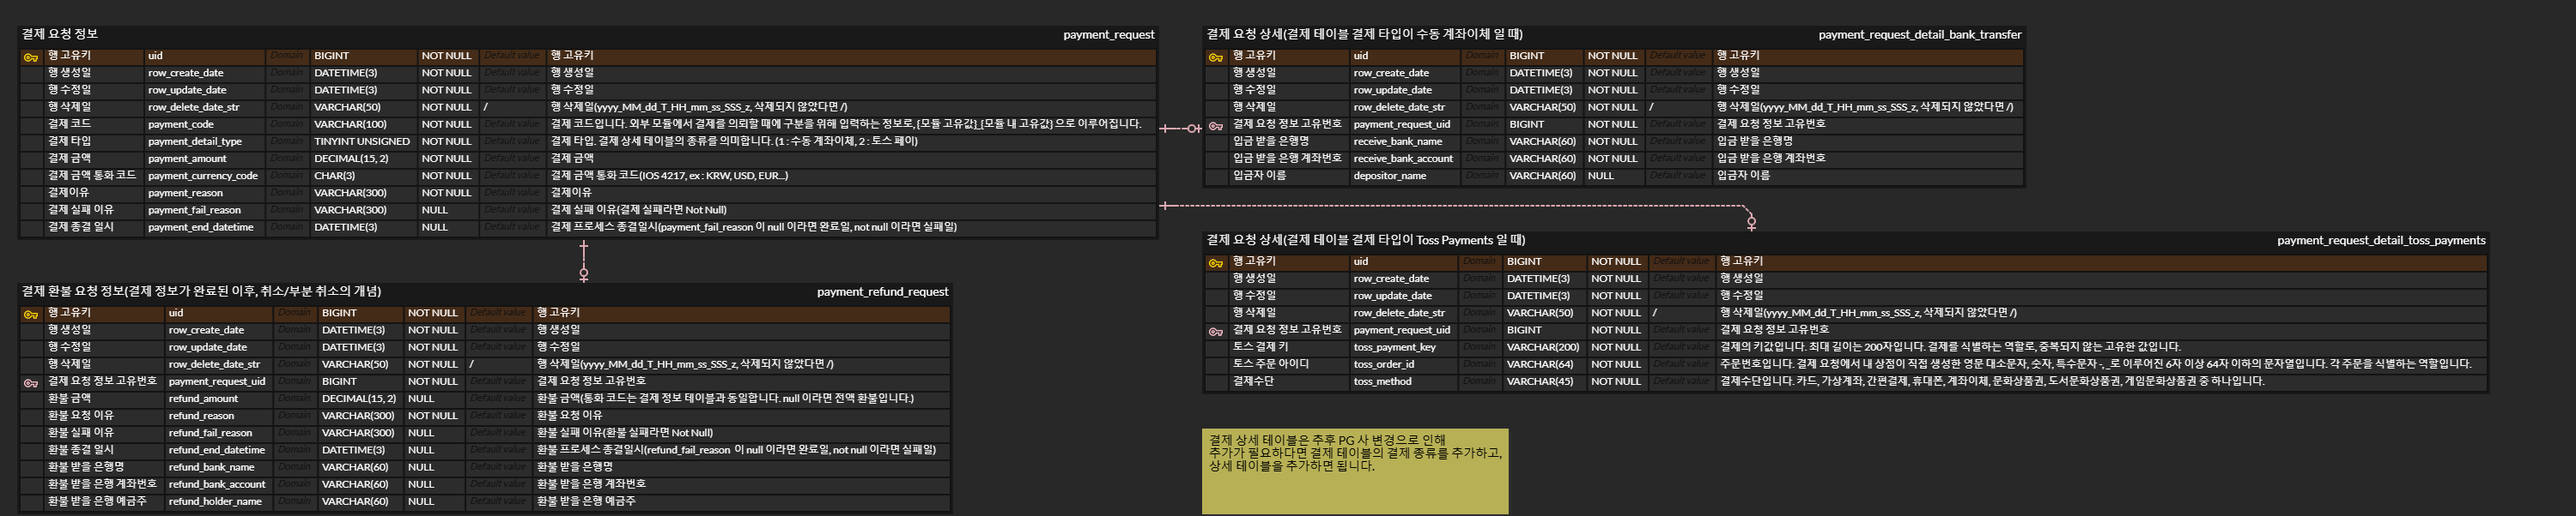
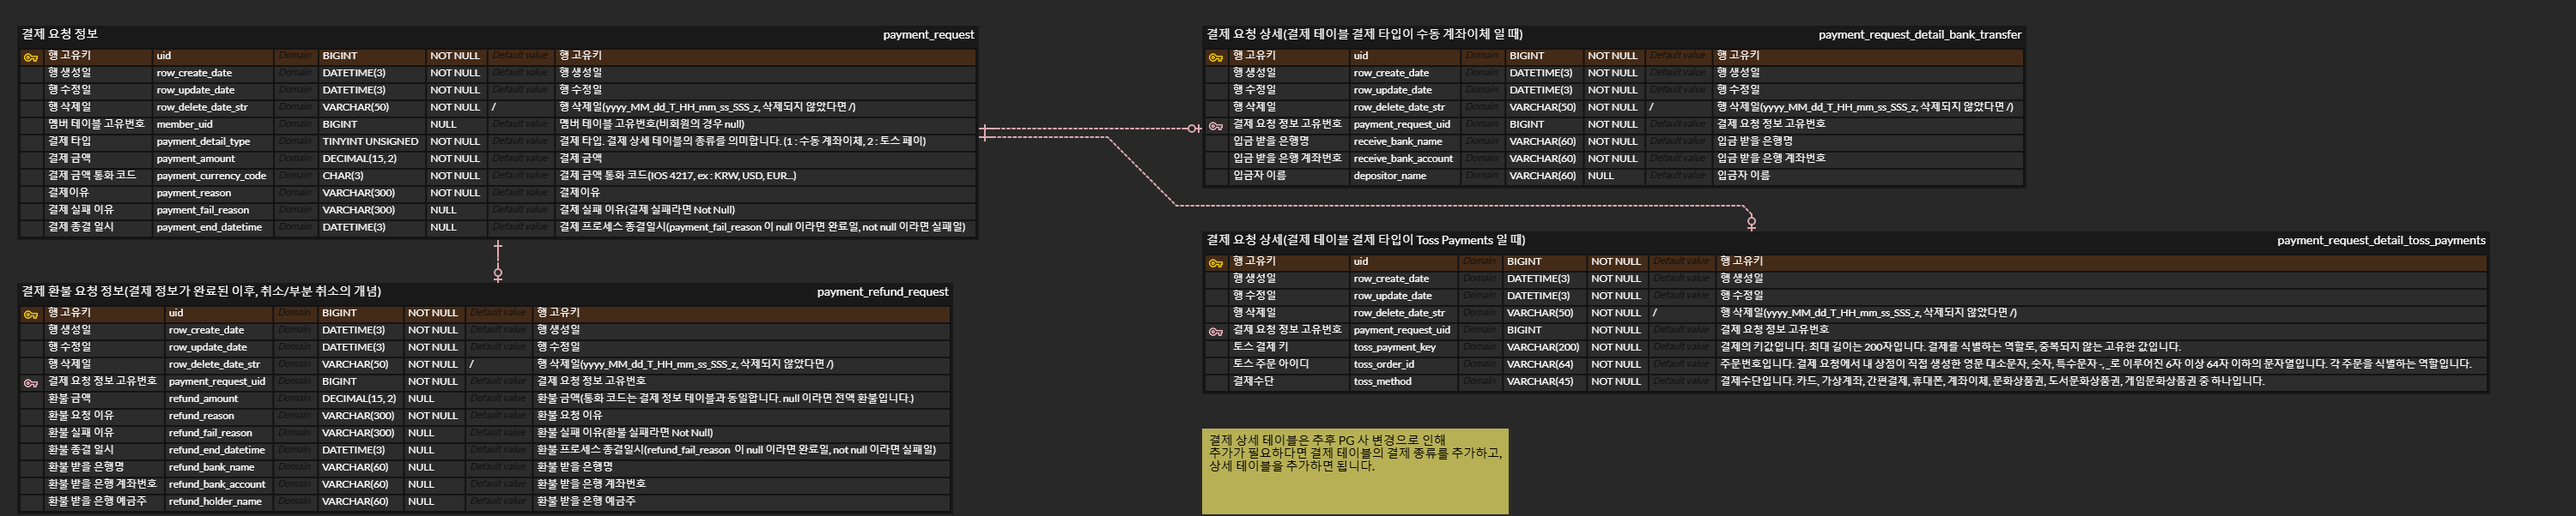
update : 결제 모듈 테이블 수정

Changed region(s): [[0.031, 0.0897, 0.465, 0.4485], [0.372, 0.0598, 0.465, 0.1495], [0.341, 0.0598, 0.372, 0.0897]]

diff --git a/module-payment/src/main/kotlin/com/raillylinker/controllers/PaymentController.kt b/module-payment/src/main/kotlin/com/raillylinker/controllers/PaymentController.kt
@@ -49,8 +49,7 @@ class PaymentController(
                     Header(
                         name = "api-result-code",
                         description = "(Response Code 반환 원인) - Required<br>" +
-                                "1 : paymentCode 가 올바르지 않습니다.<br>" +
-                                "2 : 통화 코드값의 길이는 3이어야 합니다.",
+                                "1 : 통화 코드값의 길이는 3이어야 합니다.",
                         schema = Schema(type = "string")
                     )
                 ]
@@ -83,15 +82,6 @@ class PaymentController(
     }
 
     data class PostBankTransferRequestInputVo(
-        @Schema(
-            description = "결제 코드입니다.<br>" +
-                    "외부 모듈에서 결제를 의뢰할 때에 구분을 위해 입력하는 정보로, {유저 고유값(비로그인시 0)}_{모듈 고유값}_{그 외 고유값} 으로 이루어집니다.<br>" +
-                    "환불 요청시의 비밀번호 역할도 겸하므로, 모듈 내 고유값에 유저 고유값과 랜덤값을 섞는 것이 좋습니다.",
-            required = true,
-            example = "module1_uid1"
-        )
-        @JsonProperty("paymentCode")
-        val paymentCode: String,
         @Schema(description = "결제 금액", required = true, example = "1000")
         @JsonProperty("paymentAmount")
         val paymentAmount: BigDecimal,
@@ -143,7 +133,7 @@ class PaymentController(
                     Header(
                         name = "api-result-code",
                         description = "(Response Code 반환 원인) - Required<br>" +
-                                "1 : 정보가 없거나 코드가 다릅니다.<br>" +
+                                "1 : 정보가 없습니다.<br>" +
                                 "2 : 완료되지 않은 결제입니다.<br>" +
                                 "3 : 실패한 결제입니다.<br>" +
                                 "4 : 환불 내역이 존재합니다.",
@@ -176,13 +166,6 @@ class PaymentController(
     }
 
     data class PostRequestBankTransferRefundAllInputVo(
-        @Schema(
-            description = "결제 요청에 사용한 결제 코드",
-            required = true,
-            example = "module1_uid1"
-        )
-        @JsonProperty("paymentCode")
-        val paymentCode: String,
         @Schema(description = "환불 이유", required = true, example = "상품 하자")
         @JsonProperty("refundReason")
         val refundReason: String,
@@ -236,7 +219,7 @@ class PaymentController(
                     Header(
                         name = "api-result-code",
                         description = "(Response Code 반환 원인) - Required<br>" +
-                                "1 : 정보가 없거나 코드가 다릅니다.<br>" +
+                                "1 : 정보가 없습니다.<br>" +
                                 "2 : 완료되지 않은 결제입니다.<br>" +
                                 "3 : 실패한 결제입니다.<br>" +
                                 "4 : 전액 환불 내역이 존재합니다.<br>" +
@@ -270,13 +253,6 @@ class PaymentController(
     }
 
     data class PostRequestBankTransferRefundPartInputVo(
-        @Schema(
-            description = "결제 요청에 사용한 결제 코드",
-            required = true,
-            example = "module1_uid1"
-        )
-        @JsonProperty("paymentCode")
-        val paymentCode: String,
         @Schema(description = "환불 금액(통화 코드는 결제 금액과 같다고 간주합니다.)", required = true, example = "10000")
         @JsonProperty("refundAmount")
         val refundAmount: BigDecimal,
@@ -333,8 +309,7 @@ class PaymentController(
                     Header(
                         name = "api-result-code",
                         description = "(Response Code 반환 원인) - Required<br>" +
-                                "1 : paymentCode 가 올바르지 않습니다.<br>" +
-                                "2 : Toss Payments API 호출 실패",
+                                "1 : Toss Payments API 호출 실패",
                         schema = Schema(type = "string")
                     )
                 ]
@@ -367,15 +342,6 @@ class PaymentController(
     }
 
     data class PostPgTossPaymentsRequestInputVo(
-        @Schema(
-            description = "결제 코드입니다.<br>" +
-                    "외부 모듈에서 결제를 의뢰할 때에 구분을 위해 입력하는 정보로, {유저 고유값(비로그인시 0)}_{모듈 고유값}_{그 외 고유값} 으로 이루어집니다.<br>" +
-                    "환불 요청시의 비밀번호 역할도 겸하므로, 모듈 내 고유값에 유저 고유값과 랜덤값을 섞는 것이 좋습니다.",
-            required = true,
-            example = "module1_uid1"
-        )
-        @JsonProperty("paymentCode")
-        val paymentCode: String,
         @Schema(description = "결제 금액(통화 코드는 KRW 로 간주합니다.)", required = true, example = "1000")
         @JsonProperty("paymentAmount")
         val paymentAmount: Long,
@@ -417,7 +383,7 @@ class PaymentController(
                     Header(
                         name = "api-result-code",
                         description = "(Response Code 반환 원인) - Required<br>" +
-                                "1 : 정보가 없거나 코드가 다릅니다.<br>" +
+                                "1 : 정보가 없습니다.<br>" +
                                 "2 : 완료되지 않은 결제입니다.<br>" +
                                 "3 : 실패한 결제입니다.<br>" +
                                 "4 : 환불 내역이 존재합니다.<br>" +
@@ -452,13 +418,6 @@ class PaymentController(
     }
 
     data class PostRequestPgTossPaymentsRefundAllInputVo(
-        @Schema(
-            description = "결제 요청에 사용한 결제 코드",
-            required = true,
-            example = "module1_uid1"
-        )
-        @JsonProperty("paymentCode")
-        val paymentCode: String,
         @Schema(description = "환불 이유", required = true, example = "상품 하자")
         @JsonProperty("refundReason")
         val refundReason: String,
@@ -521,7 +480,7 @@ class PaymentController(
                     Header(
                         name = "api-result-code",
                         description = "(Response Code 반환 원인) - Required<br>" +
-                                "1 : 정보가 없거나 코드가 다릅니다.<br>" +
+                                "1 : 정보가 없습니다.<br>" +
                                 "2 : 완료되지 않은 결제입니다.<br>" +
                                 "3 : 실패한 결제입니다.<br>" +
                                 "4 : 전액 환불 내역이 존재합니다.<br>" +
@@ -557,13 +516,6 @@ class PaymentController(
     }
 
     data class PostRequestPgTossPaymentsRefundPartInputVo(
-        @Schema(
-            description = "결제 요청에 사용한 결제 코드",
-            required = true,
-            example = "module1_uid1"
-        )
-        @JsonProperty("paymentCode")
-        val paymentCode: String,
         @Schema(description = "결제 금액(통화 코드는 KRW 로 간주합니다.)", required = true, example = "1000")
         @JsonProperty("prefundAmount")
         val refundAmount: Long,

diff --git a/module-payment/src/main/kotlin/com/raillylinker/services/PaymentService.kt b/module-payment/src/main/kotlin/com/raillylinker/services/PaymentService.kt
@@ -82,37 +82,29 @@ class PaymentService(
     ): PaymentController.PostBankTransferRequestOutputVo? {
         val notLoggedIn = authTokenFilterTotalAuth.checkRequestAuthorization(httpServletRequest) == null
 
-        val memberUidForPaymentCode =
+        val memberEntity =
             if (notLoggedIn) {
-                0
+                null
             } else {
-                jwtTokenUtil.getMemberUid(
+                val memberUid = jwtTokenUtil.getMemberUid(
                     authorization!!.split(" ")[1].trim(),
                     authTokenFilterTotalAuth.authJwtClaimsAes256InitializationVector,
                     authTokenFilterTotalAuth.authJwtClaimsAes256EncryptionKey
                 )
-            }.toString()
-
-        val paymentCodeSplit = inputVo.paymentCode.split("_")
-
-        if (paymentCodeSplit.size < 3 || paymentCodeSplit.first() != memberUidForPaymentCode) {
-            // paymentCode 가 올바르지 않음(_ 로 분리한 길이가 맞지 않거나 멤버 고유값이 일치하지 않는 경우)
-            httpServletResponse.status = HttpStatus.NO_CONTENT.value()
-            httpServletResponse.setHeader("api-result-code", "1")
-            return null
-        }
+                db1RaillyLinkerCompanyTotalAuthMemberRepository.findByUidAndRowDeleteDateStr(memberUid, "/")!!
+            }
 
         if (inputVo.currencyCode.length != 3) {
             // 통화 코드값의 길이는 3이어야 합니다.
             httpServletResponse.status = HttpStatus.NO_CONTENT.value()
-            httpServletResponse.setHeader("api-result-code", "2")
+            httpServletResponse.setHeader("api-result-code", "1")
             return null
         }
 
         val paymentRequest =
             db1RaillyLinkerCompanyPaymentRequestRepository.save(
                 Db1_RaillyLinkerCompany_PaymentRequest(
-                    inputVo.paymentCode,
+                    memberEntity,
                     1,
                     inputVo.paymentAmount,
                     inputVo.currencyCode.uppercase(),
@@ -148,10 +140,8 @@ class PaymentService(
         val paymentRequest =
             db1RaillyLinkerCompanyPaymentRequestRepository.findByUidAndRowDeleteDateStr(paymentRequestUid, "/")
 
-        if (paymentRequest == null ||
-            paymentRequest.paymentCode != inputVo.paymentCode
-        ) {
-            // 정보가 없거나 코드가 다릅니다.
+        if (paymentRequest == null) {
+            // 정보가 없습니다.
             httpServletResponse.status = HttpStatus.NO_CONTENT.value()
             httpServletResponse.setHeader("api-result-code", "1")
             return null
@@ -223,10 +213,8 @@ class PaymentService(
         val paymentRequest =
             db1RaillyLinkerCompanyPaymentRequestRepository.findByUidAndRowDeleteDateStr(paymentRequestUid, "/")
 
-        if (paymentRequest == null ||
-            paymentRequest.paymentCode != inputVo.paymentCode
-        ) {
-            // 정보가 없거나 코드가 다릅니다.
+        if (paymentRequest == null) {
+            // 정보가 없습니다.
             httpServletResponse.status = HttpStatus.NO_CONTENT.value()
             httpServletResponse.setHeader("api-result-code", "1")
             return null
@@ -311,25 +299,17 @@ class PaymentService(
     ): PaymentController.PostPgTossPaymentsRequestOutputVo? {
         val notLoggedIn = authTokenFilterTotalAuth.checkRequestAuthorization(httpServletRequest) == null
 
-        val memberUidForPaymentCode =
+        val memberEntity =
             if (notLoggedIn) {
-                0
+                null
             } else {
-                jwtTokenUtil.getMemberUid(
+                val memberUid = jwtTokenUtil.getMemberUid(
                     authorization!!.split(" ")[1].trim(),
                     authTokenFilterTotalAuth.authJwtClaimsAes256InitializationVector,
                     authTokenFilterTotalAuth.authJwtClaimsAes256EncryptionKey
                 )
-            }.toString()
-
-        val paymentCodeSplit = inputVo.paymentCode.split("_")
-
-        if (paymentCodeSplit.size < 3 || paymentCodeSplit.first() != memberUidForPaymentCode) {
-            // paymentCode 가 올바르지 않음(_ 로 분리한 길이가 맞지 않거나 멤버 고유값이 일치하지 않는 경우)
-            httpServletResponse.status = HttpStatus.NO_CONTENT.value()
-            httpServletResponse.setHeader("api-result-code", "1")
-            return null
-        }
+                db1RaillyLinkerCompanyTotalAuthMemberRepository.findByUidAndRowDeleteDateStr(memberUid, "/")!!
+            }
 
         val requestPaymentResponse =
             networkRetrofit2.tossPaymentsRequestApi.postV1PaymentsConfirm(
@@ -348,7 +328,7 @@ class PaymentService(
             val paymentRequest =
                 db1RaillyLinkerCompanyPaymentRequestRepository.save(
                     Db1_RaillyLinkerCompany_PaymentRequest(
-                        inputVo.paymentCode,
+                        memberEntity,
                         2,
                         BigDecimal.valueOf(inputVo.paymentAmount),
                         "KRW",
@@ -378,7 +358,7 @@ class PaymentService(
 
             // Toss Payments API 호출 실패
             httpServletResponse.status = HttpStatus.NO_CONTENT.value()
-            httpServletResponse.setHeader("api-result-code", "2")
+            httpServletResponse.setHeader("api-result-code", "1")
             return null
         }
     }
@@ -395,10 +375,8 @@ class PaymentService(
         val paymentRequest =
             db1RaillyLinkerCompanyPaymentRequestRepository.findByUidAndRowDeleteDateStr(paymentRequestUid, "/")
 
-        if (paymentRequest == null ||
-            paymentRequest.paymentCode != inputVo.paymentCode
-        ) {
-            // 정보가 없거나 코드가 다릅니다.
+        if (paymentRequest == null) {
+            // 정보가 없습니다.
             httpServletResponse.status = HttpStatus.NO_CONTENT.value()
             httpServletResponse.setHeader("api-result-code", "1")
             return null
@@ -527,10 +505,8 @@ class PaymentService(
         val paymentRequest =
             db1RaillyLinkerCompanyPaymentRequestRepository.findByUidAndRowDeleteDateStr(paymentRequestUid, "/")
 
-        if (paymentRequest == null ||
-            paymentRequest.paymentCode != inputVo.paymentCode
-        ) {
-            // 정보가 없거나 코드가 다릅니다.
+        if (paymentRequest == null) {
+            // 정보가 없습니다.
             httpServletResponse.status = HttpStatus.NO_CONTENT.value()
             httpServletResponse.setHeader("api-result-code", "1")
             return null

diff --git a/module-payment/src/main/kotlin/com/raillylinker/jpa_beans/db1_main/entities/Db1_RaillyLinkerCompany_PaymentRequest.kt b/module-payment/src/main/kotlin/com/raillylinker/jpa_beans/db1_main/entities/Db1_RaillyLinkerCompany_PaymentRequest.kt
@@ -18,9 +18,10 @@ import java.time.LocalDateTime
 )
 @Comment("결제 요청 정보 테이블")
 class Db1_RaillyLinkerCompany_PaymentRequest(
-    @Column(name = "payment_code", nullable = false, columnDefinition = "VARCHAR(100)")
-    @Comment("결제 코드입니다. 외부 모듈에서 결제를 의뢰할 때에 구분을 위해 입력하는 정보로, {유저 고유값(비로그인시 0)}_{모듈 고유값}_{그 외 고유값} 으로 이루어집니다. 환불 요청시의 비밀번호 역할도 겸하므로, 모듈 내 고유값에 유저 고유값과 랜덤값을 섞는 것이 좋습니다.")
-    var paymentCode: String,
+    @ManyToOne
+    @JoinColumn(name = "member_uid", nullable = true)
+    @Comment("멤버 고유번호(railly_linker_company.total_auth_member.uid)")
+    var totalAuthMember: Db1_RaillyLinkerCompany_TotalAuthMember?,
 
     @Column(name = "payment_detail_type", nullable = false, columnDefinition = "TINYINT UNSIGNED")
     @Comment("결제 타입. 결제 상세 테이블의 종류를 의미합니다. (1 : 수동 계좌이체, 2 : 토스 페이)")
